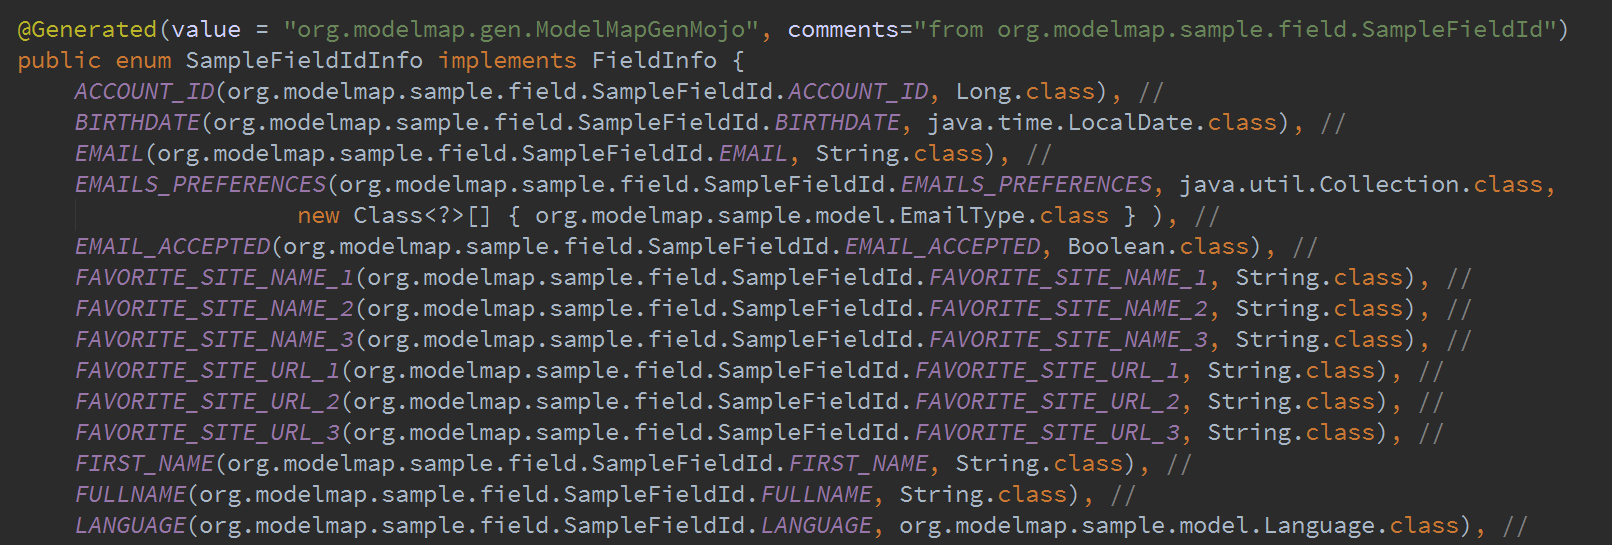
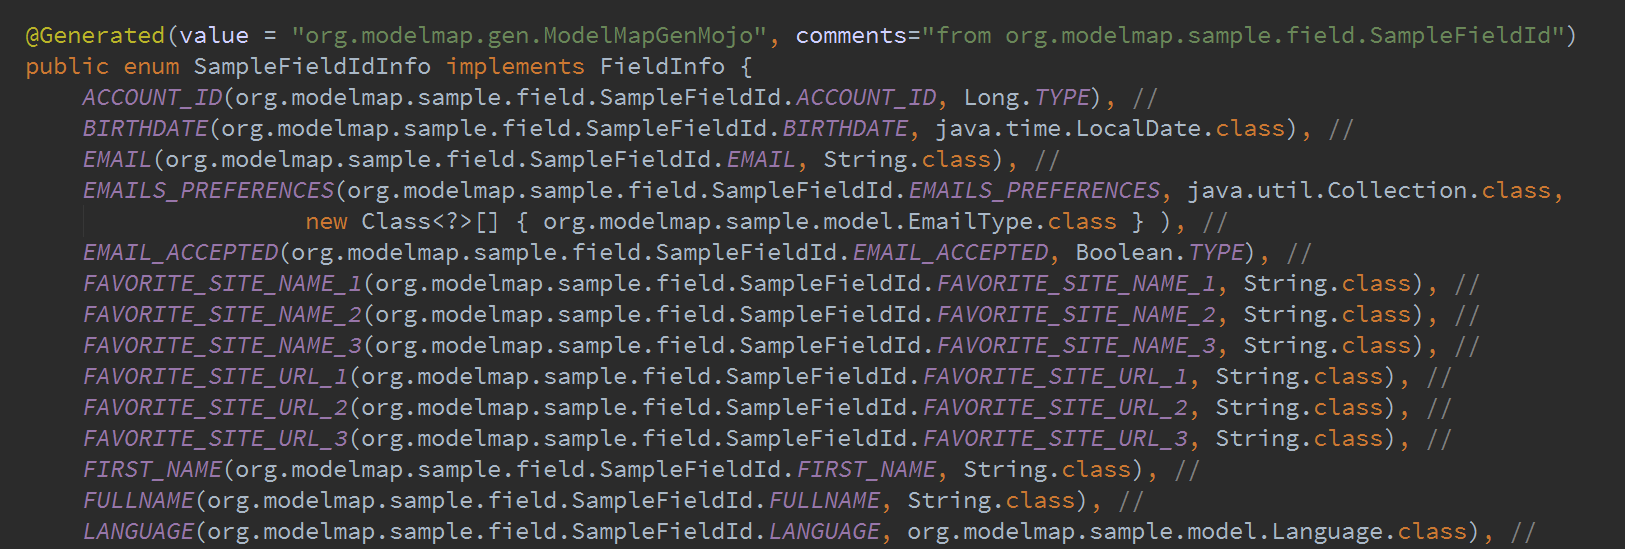
add some slides about implementation details

Changed region(s): [[0.0, 0.0312, 0.9926, 0.9982]]

diff --git a/doc/org_modelmap.html b/doc/org_modelmap.html
@@ -275,12 +275,22 @@
         </section>
         <section>
           <h2>Generation output (1/3)</h2>
-          <p>TODO describe pattern generation of wrapper</p>
-          <img class="fragment" width="100%" src="png/org_modelmap_maven_codegen_3.png">
+          <ul class="fragment">
+            <li>The generated model implements the FieldModel interface.</li>
+            <li></li>
+            <li>The 2 main methods are a getter and setter by FieldId.</li>
+            <p></p>
+          </ul>
+          <img class="fragment" src="png/org_modelmap_maven_codegen_3_1.png">
+        </section>
+         <section>
+          <h2>Generation output (1/3)</h2>
+          <p class="fragment">... and with some additional methods.</p>
+          <img class="fragment" src="png/org_modelmap_maven_codegen_3_2.png">
         </section>
         <section>
           <h2>Generation output (2/3)</h2>
-          <p class="fragment">An Enumeration containing each field, type,<br> generics type (optionnal)
+          <p class="fragment">An Enumeration containing field, type, generics type (optionnal)</p>
           <img class="fragment" width="100%" src="png/org_modelmap_maven_codegen_4.png">
         </section>
         <section>
@@ -298,7 +308,6 @@
           <h2>Domain Model as Stream</h2>
           <p>Domain can be manipulated as a stream of key/value pair</p>  
           <p>TODO : diff model</p>
-          <p>TODO : C* persistence</p>
         </section>
       </section>
 

diff --git a/generator/src/main/java/org/modelmap/gen/FieldInfoGen.java b/generator/src/main/java/org/modelmap/gen/FieldInfoGen.java
@@ -22,6 +22,8 @@ final class FieldInfoGen {
                             final String siblings = formatSiblings(siblings(currentPath, fieldPaths.values()));
                             final String rawType;
                             final String parameterTypes;
+                            final boolean isPrimitive = currentPath.getGetMethod().getReturnType().isPrimitive();
+
                             if (boxingType.contains("<")) {
                                 rawType = boxingType.substring(0, boxingType.indexOf('<'));
                                 Type methodType = currentPath.getGetMethod().getGenericReturnType();
@@ -40,7 +42,7 @@ final class FieldInfoGen {
                             builder.append(fieldId.toString());
                             builder.append(", ");
                             builder.append(rawType);
-                            builder.append(".class");
+                            builder.append(isPrimitive ? ".TYPE" : ".class");
                             builder.append(parameterTypes);
                             builder.append(siblings);
                             builder.append("), //\n");

diff --git a/sample/base/src/main/java/org/modelmap/sample/model/Account.java b/sample/base/src/main/java/org/modelmap/sample/model/Account.java
@@ -23,7 +23,7 @@ public class Account extends Identity {
     @SamplePath(field = SampleFieldId.EMAIL)
     private String email;
     @SamplePath(field = SampleFieldId.EMAIL_ACCEPTED)
-    private Boolean acceptEmail;
+    private boolean acceptEmail;
     @SamplePath(field = SampleFieldId.EMAILS_PREFERENCES)
     private Collection<EmailType> emailTypes = new HashSet<>();
 
@@ -64,11 +64,11 @@ public class Account extends Identity {
         this.language = language;
     }
 
-    public Boolean getAcceptEmail() {
+    public boolean getAcceptEmail() {
         return acceptEmail;
     }
 
-    public void setAcceptEmail(Boolean acceptEmail) {
+    public void setAcceptEmail(boolean acceptEmail) {
         this.acceptEmail = acceptEmail;
     }
 
